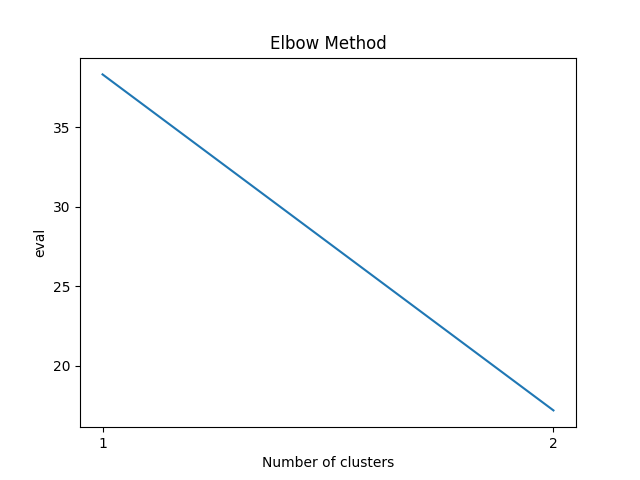
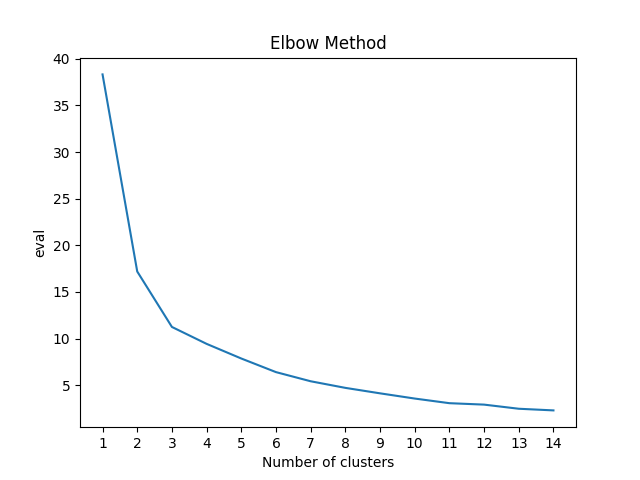
ults

diff --git a/src/K_means.py b/src/K_means.py
@@ -32,6 +32,8 @@ class K_means(ClusterModel):
             ind=np.random.choice(X.shape[0], k, replace=False)
             mi=X[ind]
             clusters,cent=self._cluster(X,mi)
+            if clusters is None:
+                continue
             eval=self.evaluate(clusters,cent,X)
             if eval<best_eval:
                 best_res=clusters
@@ -54,6 +56,8 @@ class K_means(ClusterModel):
                 assignment[ind]=j
             newmi=np.empty((k,m))
             for i in range(k):
+                if len(clusters[i])==0:
+                    return None,None
                 newmi[i]=np.mean(clusters[i],axis=0)
             #newmi=np.array([np.apply_along_axis(np.mean,0,clusters[i]) for i in range(k)])
             if self.dist(newmi,mi)<self.eps:

diff --git a/src/no_clusters.py b/src/no_clusters.py
@@ -20,7 +20,7 @@ dane_path =os.path.join(project_dir, "dane", f'dane_2D_{set}.txt')
 data=np.loadtxt(dane_path)
 
 X,Y=prepare2D(data)
-n=X.shape[0]//50
+n=X.shape[0]//20
 eval_table=[]
 for i in range(1,n):
     M=K_means(no_clusters=i,no_iter=10)
